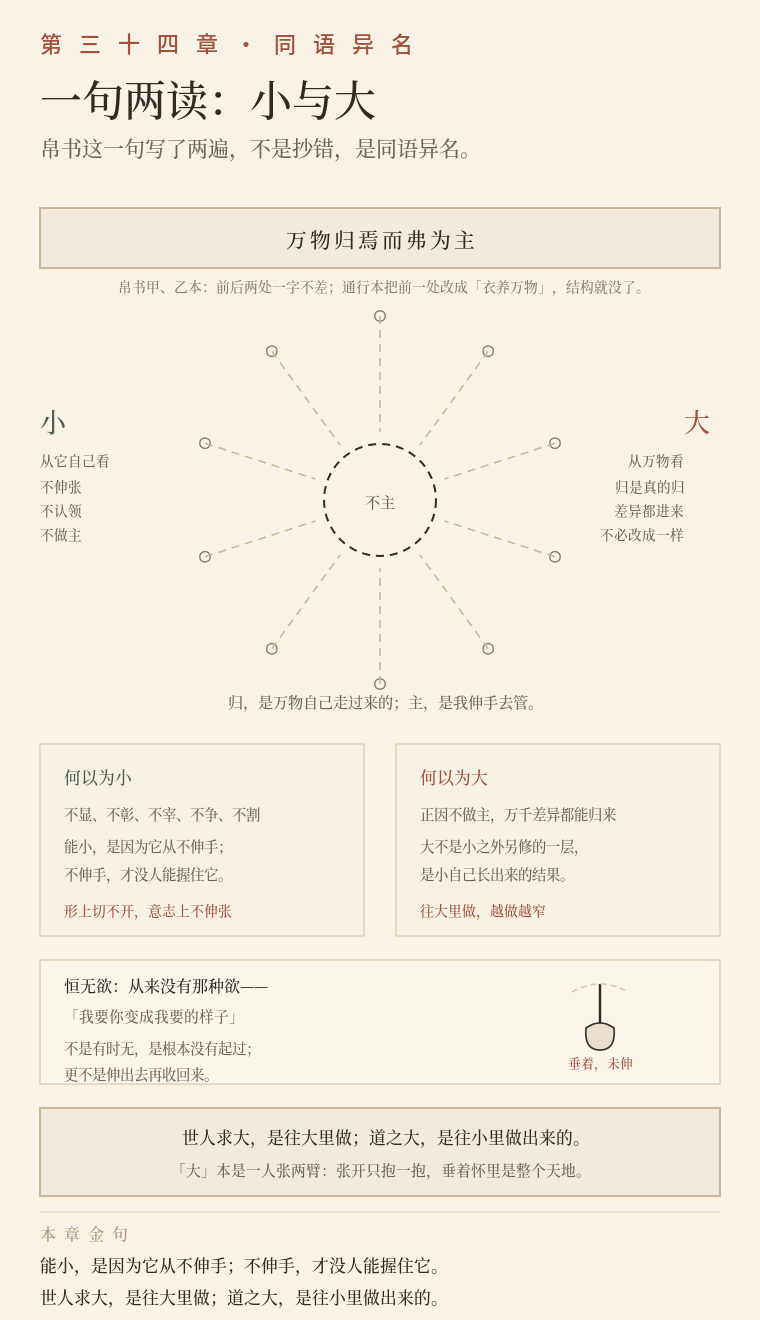
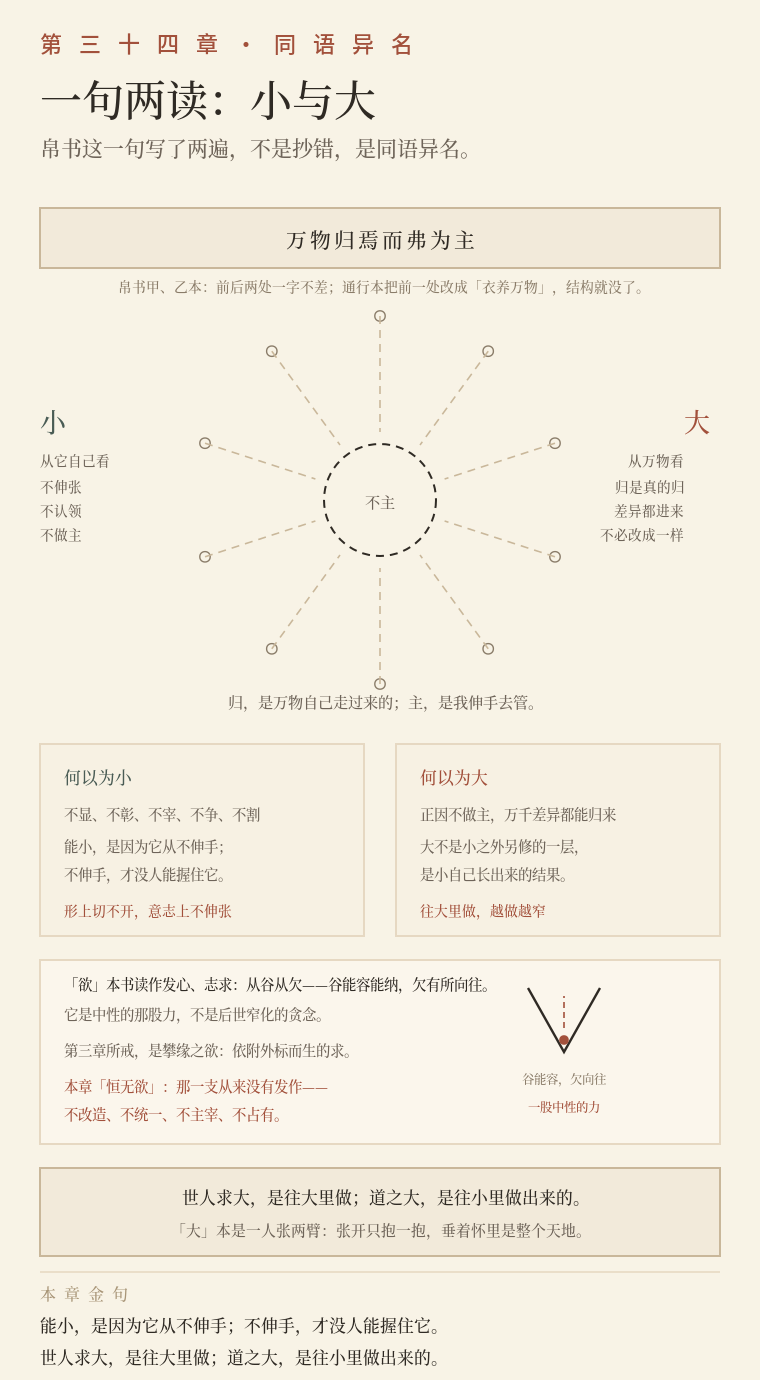
2.7.5 三十四章二图订正：「欲」依本库定义（发心志求／攀缘之欲），撤去划掉式画法

diff --git a/tools/make_yili_svg.py b/tools/make_yili_svg.py
@@ -622,7 +622,7 @@ def ch77_zhang_gong():
 
 # ============ 第八十一章 · 不积 ============
 def ch81_bu_ji():
-    W, H = 380, 660
+    W, H = 380, 690
     body, y = head(W, H, "九个不：全书收口的方式是划掉", "第 八 十 一 章 · 收 口", "九个不",
                    "他不肯说「这就是道」，只说：不是这个，不是这个。", H)
     s = [body]
@@ -2301,7 +2301,7 @@ def ch34_bu_zhu_wei_da():
 # ============ 第三十四章 · 一句两读 ============
 def ch34b_yi_ju_liang_du():
     import math
-    W, H = 380, 660
+    W, H = 380, 690
     body, y = head(W, H, "同一个「不为主」：从它自己看是小，从万物看是大", "第 三 十 四 章 · 同 语 异 名",
                    "一句两读：小与大", "帛书这一句写了两遍，不是抄错，是同语异名。", H)
     s = [body]
@@ -2350,19 +2350,21 @@ def ch34b_yi_ju_liang_du():
 
     # 恒无欲
     yb = ya + 108
-    s.append(box(20, yb, 340, 62, fill="#FBF6EC", stroke="#E6D8C2"))
-    s.append(txt(32, yb + 16, "恒无欲：从来没有那种欲——", 8.0, INK))
-    s.append(txt(32, yb + 31, "「我要你变成我要的样子」", 7.4, "#6E6459"))
-    s.append(txt(32, yb + 47, "不是有时无，是根本没有起过；", 7.2, "#6E6459"))
-    s.append(txt(32, yb + 60, "更不是伸出去再收回来。", 7.2, "#6E6459"))
-    # 手臂垂着，从未伸出
-    s.append(f'<line x1="300" y1="{yb+12}" x2="300" y2="{yb+34}" stroke="{INK}" stroke-width="1.2"/>')
-    s.append(f'<path d="M293,{yb+34} q7,-5 14,0 q1,11 -7,11 q-8,0 -7,-11 z" fill="#E9DFCC" stroke="{INK}" stroke-width="0.8"/>')
-    s.append(f'<path d="M286,{yb+16} q14,-8 28,0" fill="none" stroke="{LINE}" stroke-width="0.8" stroke-dasharray="3 2"/>')
-    s.append(txt(300, yb + 54, "垂着，未伸", 6.4, SEAL, "middle"))
+    s.append(box(20, yb, 340, 92, fill="#FBF6EC", stroke="#E6D8C2"))
+    s.append(txt(32, yb + 15, "「欲」本书读作发心、志求：从谷从欠——谷能容能纳，欠有所向往。", 7.2, INK))
+    s.append(txt(32, yb + 30, "它是中性的那股力，不是后世窄化的贪念。", 7.2, "#6E6459"))
+    s.append(txt(32, yb + 48, "第三章所戒，是攀缘之欲：依附外标而生的求。", 7.2, "#6E6459"))
+    s.append(txt(32, yb + 66, "本章「恒无欲」：那一支从来没有发作——", 7.2, SEAL))
+    s.append(txt(32, yb + 80, "不改造、不统一、不主宰、不占有。", 7.2, SEAL))
+    # 谷：两坡夹一容，向往一点
+    s.append(f'<path d="M264,{yb+14} L282,{yb+46} L300,{yb+14}" fill="none" stroke="{INK}" stroke-width="1.2"/>')
+    s.append(f'<circle cx="282" cy="{yb+40}" r="2.4" fill="{SEAL}"/>')
+    s.append(f'<line x1="282" y1="{yb+34}" x2="282" y2="{yb+18}" stroke="{SEAL}" stroke-width="0.8" stroke-dasharray="3 2"/>')
+    s.append(txt(282, yb + 62, "谷能容，欠向往", 6.2, "#8A7C69", "middle"))
+    s.append(txt(282, yb + 76, "一股中性的力", 6.2, SEAL, "middle"))
 
     # 收
-    yc = yb + 74
+    yc = yb + 104
     s.append(box(20, yc, 340, 44, fill="#F2EADA", stroke="#C9B79A"))
     s.append(txt(190, yc + 18, "世人求大，是往大里做；道之大，是往小里做出来的。", 8.4, INK, "middle"))
     s.append(txt(190, yc + 34, "「大」本是一人张两臂：张开只抱一抱，垂着怀里是整个天地。", 7.4, "#6E6459", "middle"))

diff --git a/book/义理图-体例.md b/book/义理图-体例.md
@@ -75,7 +75,7 @@
 | 三十二 | ch32a-ming-zhi | 道恒无名（其一） | 朴（木素、未定形）→名（裁进格：名一/二/三）→止（地基有边，第四格越界打×）；「知止可以不殆」 |
 | 三十二 | ch32b-chuan-gu | 道恒无名（其二） | 六条支流各宽各弯，入江海不改河道；对照「合：先改成一样的河道」；「江海之为大，在于它不挑水」 |
 | 三十三 | ch33-zi-zhi-zhe-ming | 自知者明 | 四对八句两列：智（灯照人·识词）／明（灯照己·照见）；力（筋·耗损）／强（弓·张弛）；富（备·单子太长）／有志（向外止向内行）；久（根在原处）／寿（身散根不失） |
-| 三十四·b | ch34b-yi-ju-liang-du | 一句两读：小与大 | 帛书同句两见：中心「不主」环、万物自外归而不入其内；左读作小（不伸张/不认领/不做主），右读作大（差异都进来、不必改成一样）；下证「恒无欲」＝从来没有那种欲（垂手未伸，不是伸了又收） |
+| 三十四·b | ch34b-yi-ju-liang-du | 一句两读：小与大 | 帛书同句两见：中心「不主」环、万物自外归而不入其内；左读作小（不伸张/不认领/不做主），右读作大（差异都进来、不必改成一样）；下证「恒无欲」：按本库第一章「欲＝发心、志求（从谷从欠）」立义，第三章所戒是攀缘之欲，本章是那一支从不发作 |
 | 三十四 | ch34-bu-zhu | 不主，故能成其大 | 三个本义：主＝灯中火主（一火头、飞蛾向之）／汎＝浮在水面（无据点、无正路支路）／大＝一人张两臂（张臂只抱一抱、垂臂怀天地） |
 | 三十二·a | ch32a-ming-zhi | 名与止 | 朴（木素、可方可圆）→ 名（裁：名一/名二/名三各得形）→ 止（地基边、越界打 ×，砌在虚空上） |
 | 三十二·b | ch32b-chuan-gu | 川谷与江海 | 六条支流宽窄不一、各有谷口，到江海不收窄成同一槽；右对照「合：先改成一样的河道」；注「江海不挑水」 |
